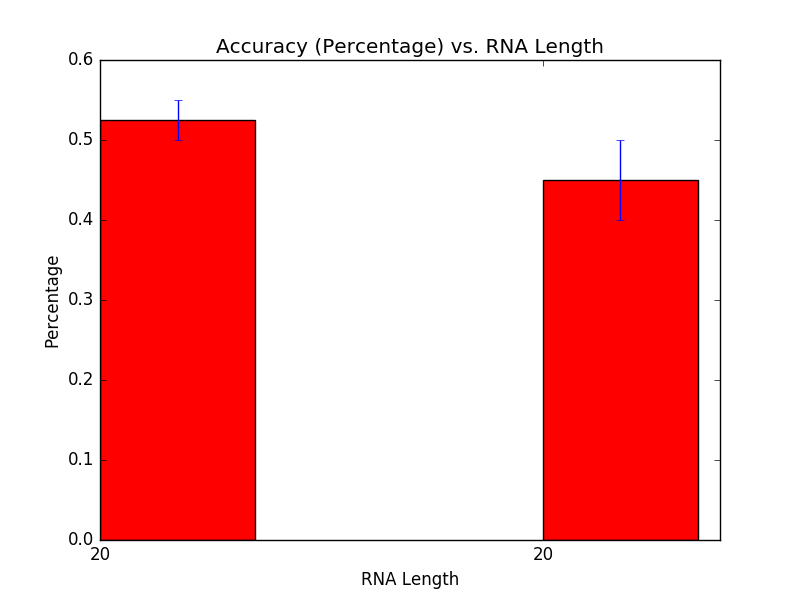
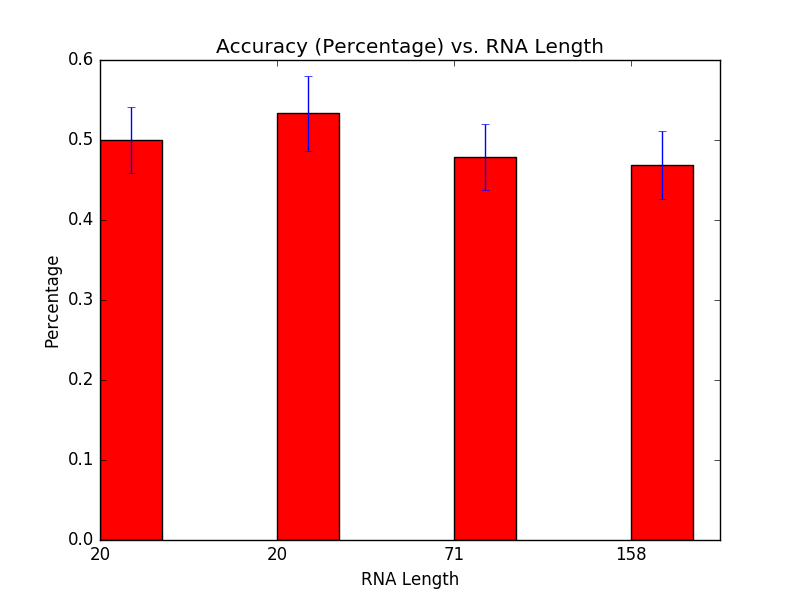
zero error fix

Changed region(s): [[0.125, 0.12, 0.4375, 0.93], [0.5625, 0.21, 0.875, 0.93]]

diff --git a/Statistics.py b/Statistics.py
@@ -187,11 +187,11 @@ def all_stats():
     # for test in tests:
     #     #scatter(test)
     #     histogram(test)
-    # percentage_bar(tests)
+    percentage_bar(tests)
     #time_bar(tests)
-    iter_bar(tests)
-    vary_mutation("test4", [0.01,0.05,0.1,0.15,0.2,0.3])
-    vary_crossover("test4", [0.2,0.3,0.4,0.5,0.6,0.7,0.8])
+    #iter_bar(tests)
+    #vary_mutation("test4", [0.01,0.05,0.1,0.15,0.2,0.3])
+    #vary_crossover("test4", [0.2,0.3,0.4,0.5,0.6,0.7,0.8])
     # compare_diagrams("Test5Output_ss.ps","test5_true.png")
 
 if __name__ == '__main__':

diff --git a/GeneticAlgorithm.py b/GeneticAlgorithm.py
@@ -59,7 +59,10 @@ class GeneticAlgorithm(object):
         return scores
 
     def probability(self,scores):
-        norm = [1.0/(max(scores)-min(scores))*(float(x)-max(scores))+1.0 for x in scores]
+        try:
+            norm = [1.0/(max(scores)-min(scores))*(float(x)-max(scores))+1.0 for x in scores]
+        except ZeroDivisionError:
+            norm = [1.0 for _ in scores]
         e = numpy.exp(-numpy.array(norm) / 1.0)
         dist = e / numpy.sum(e)
         return dist
